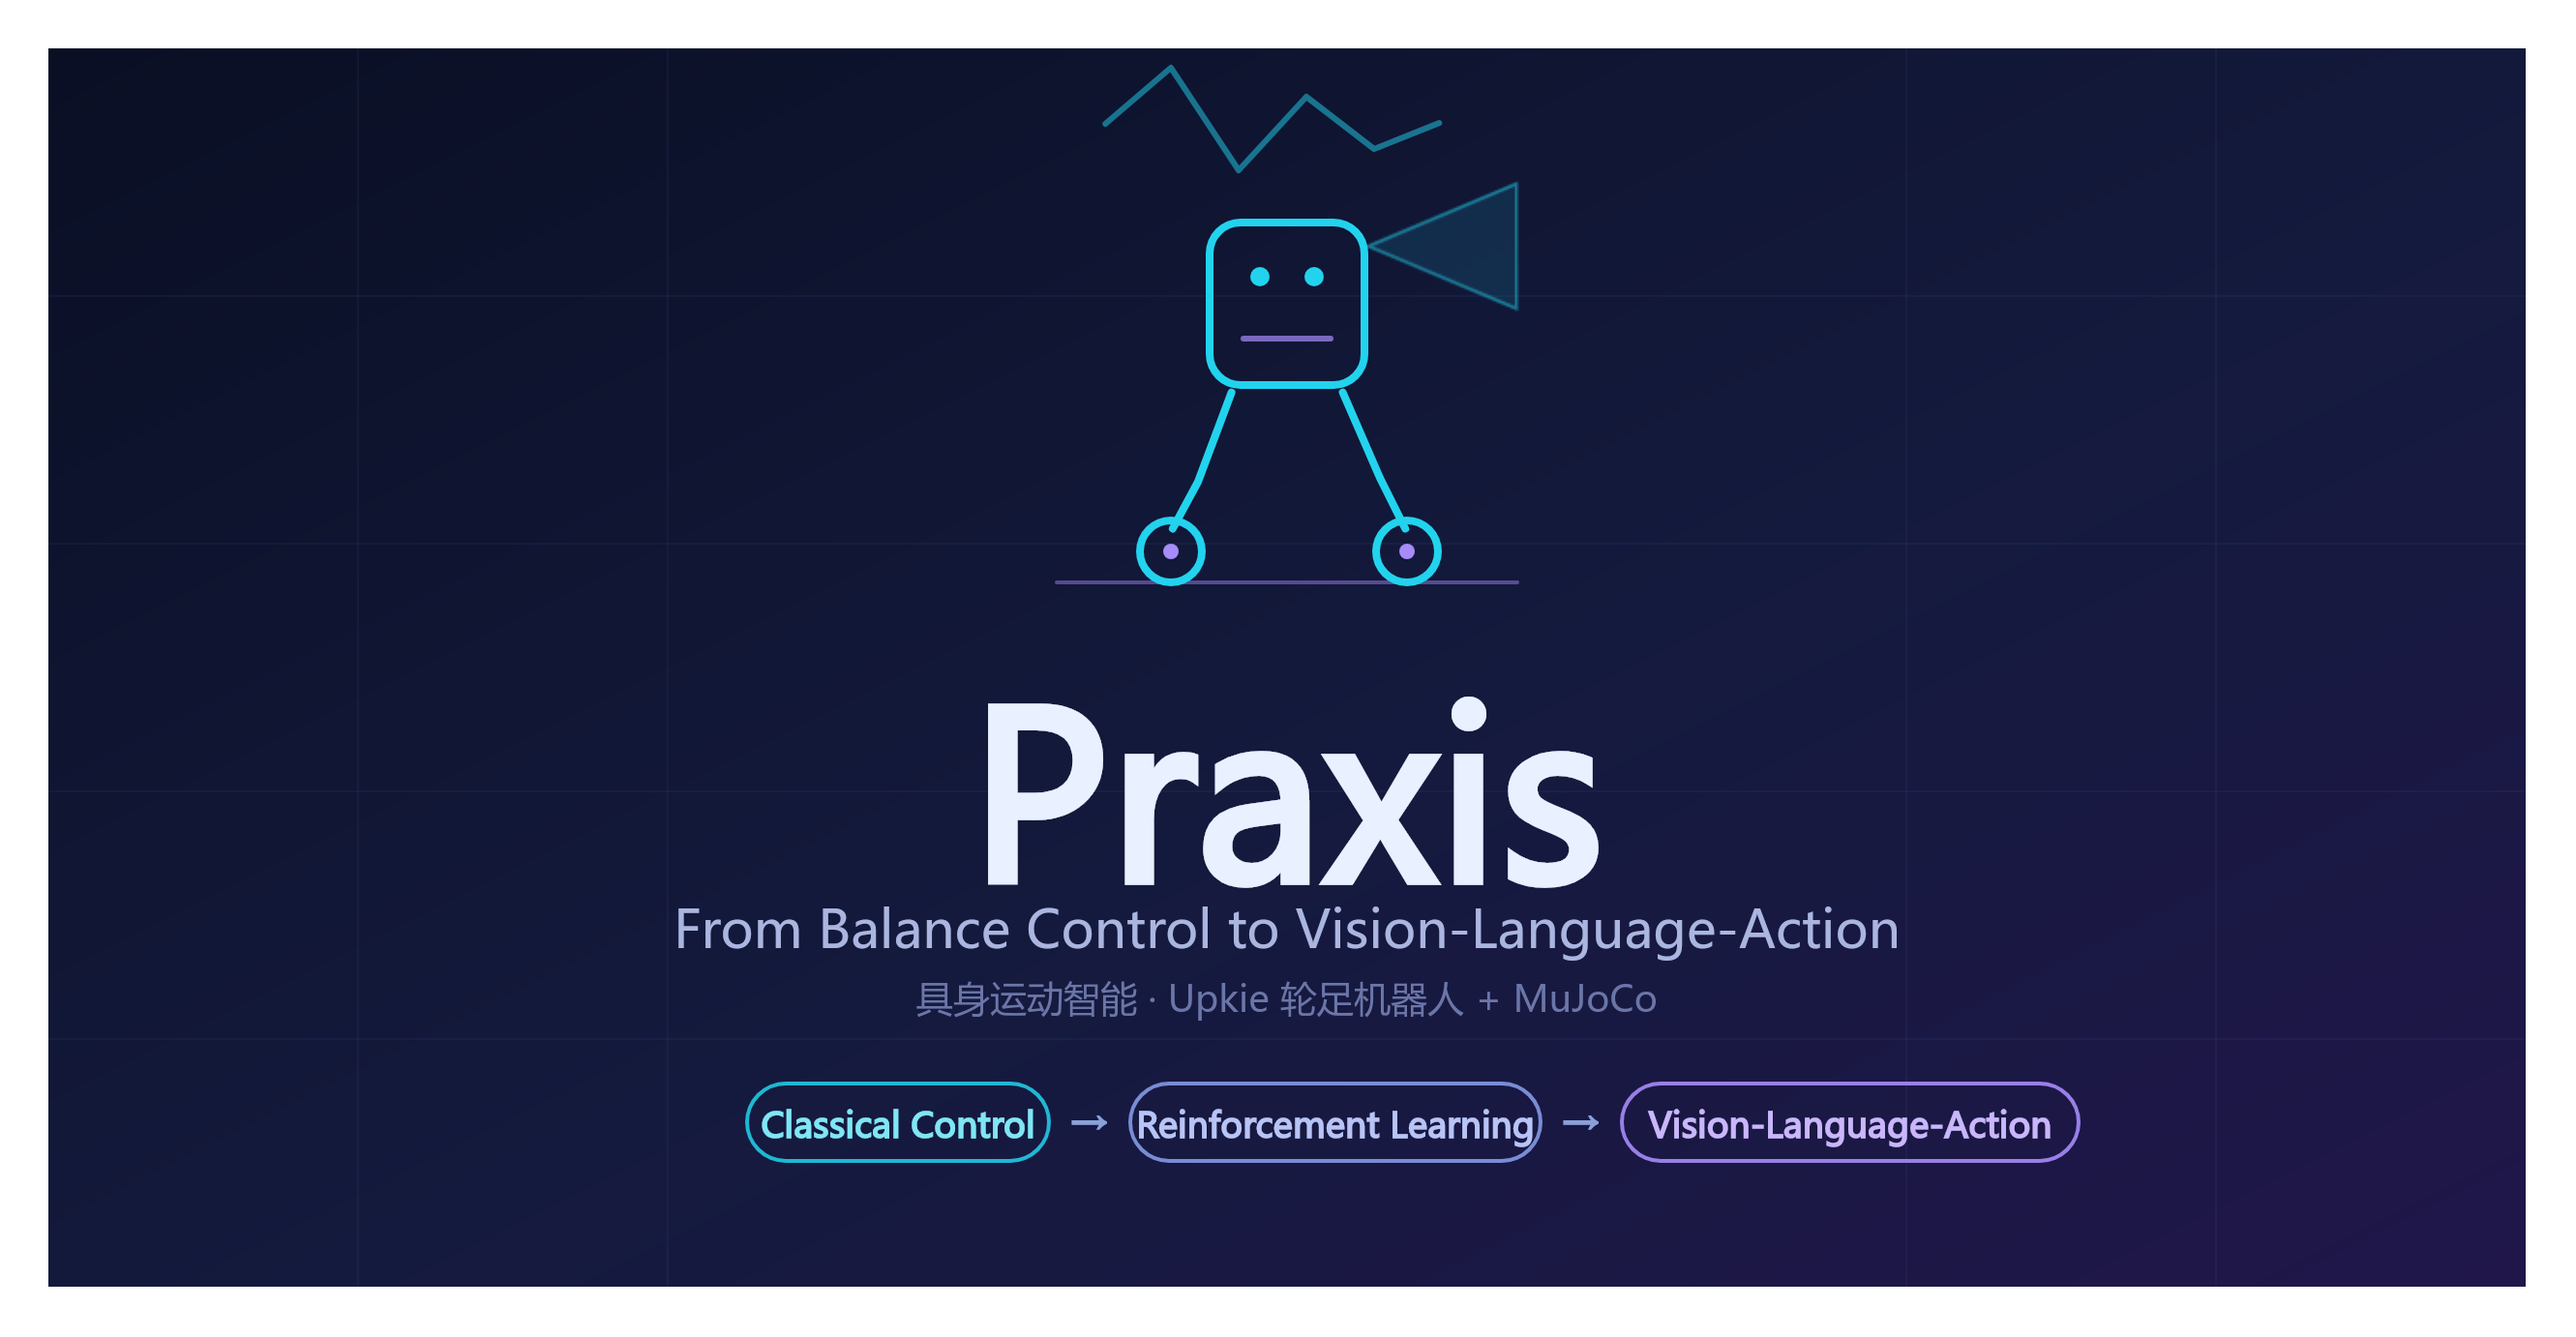
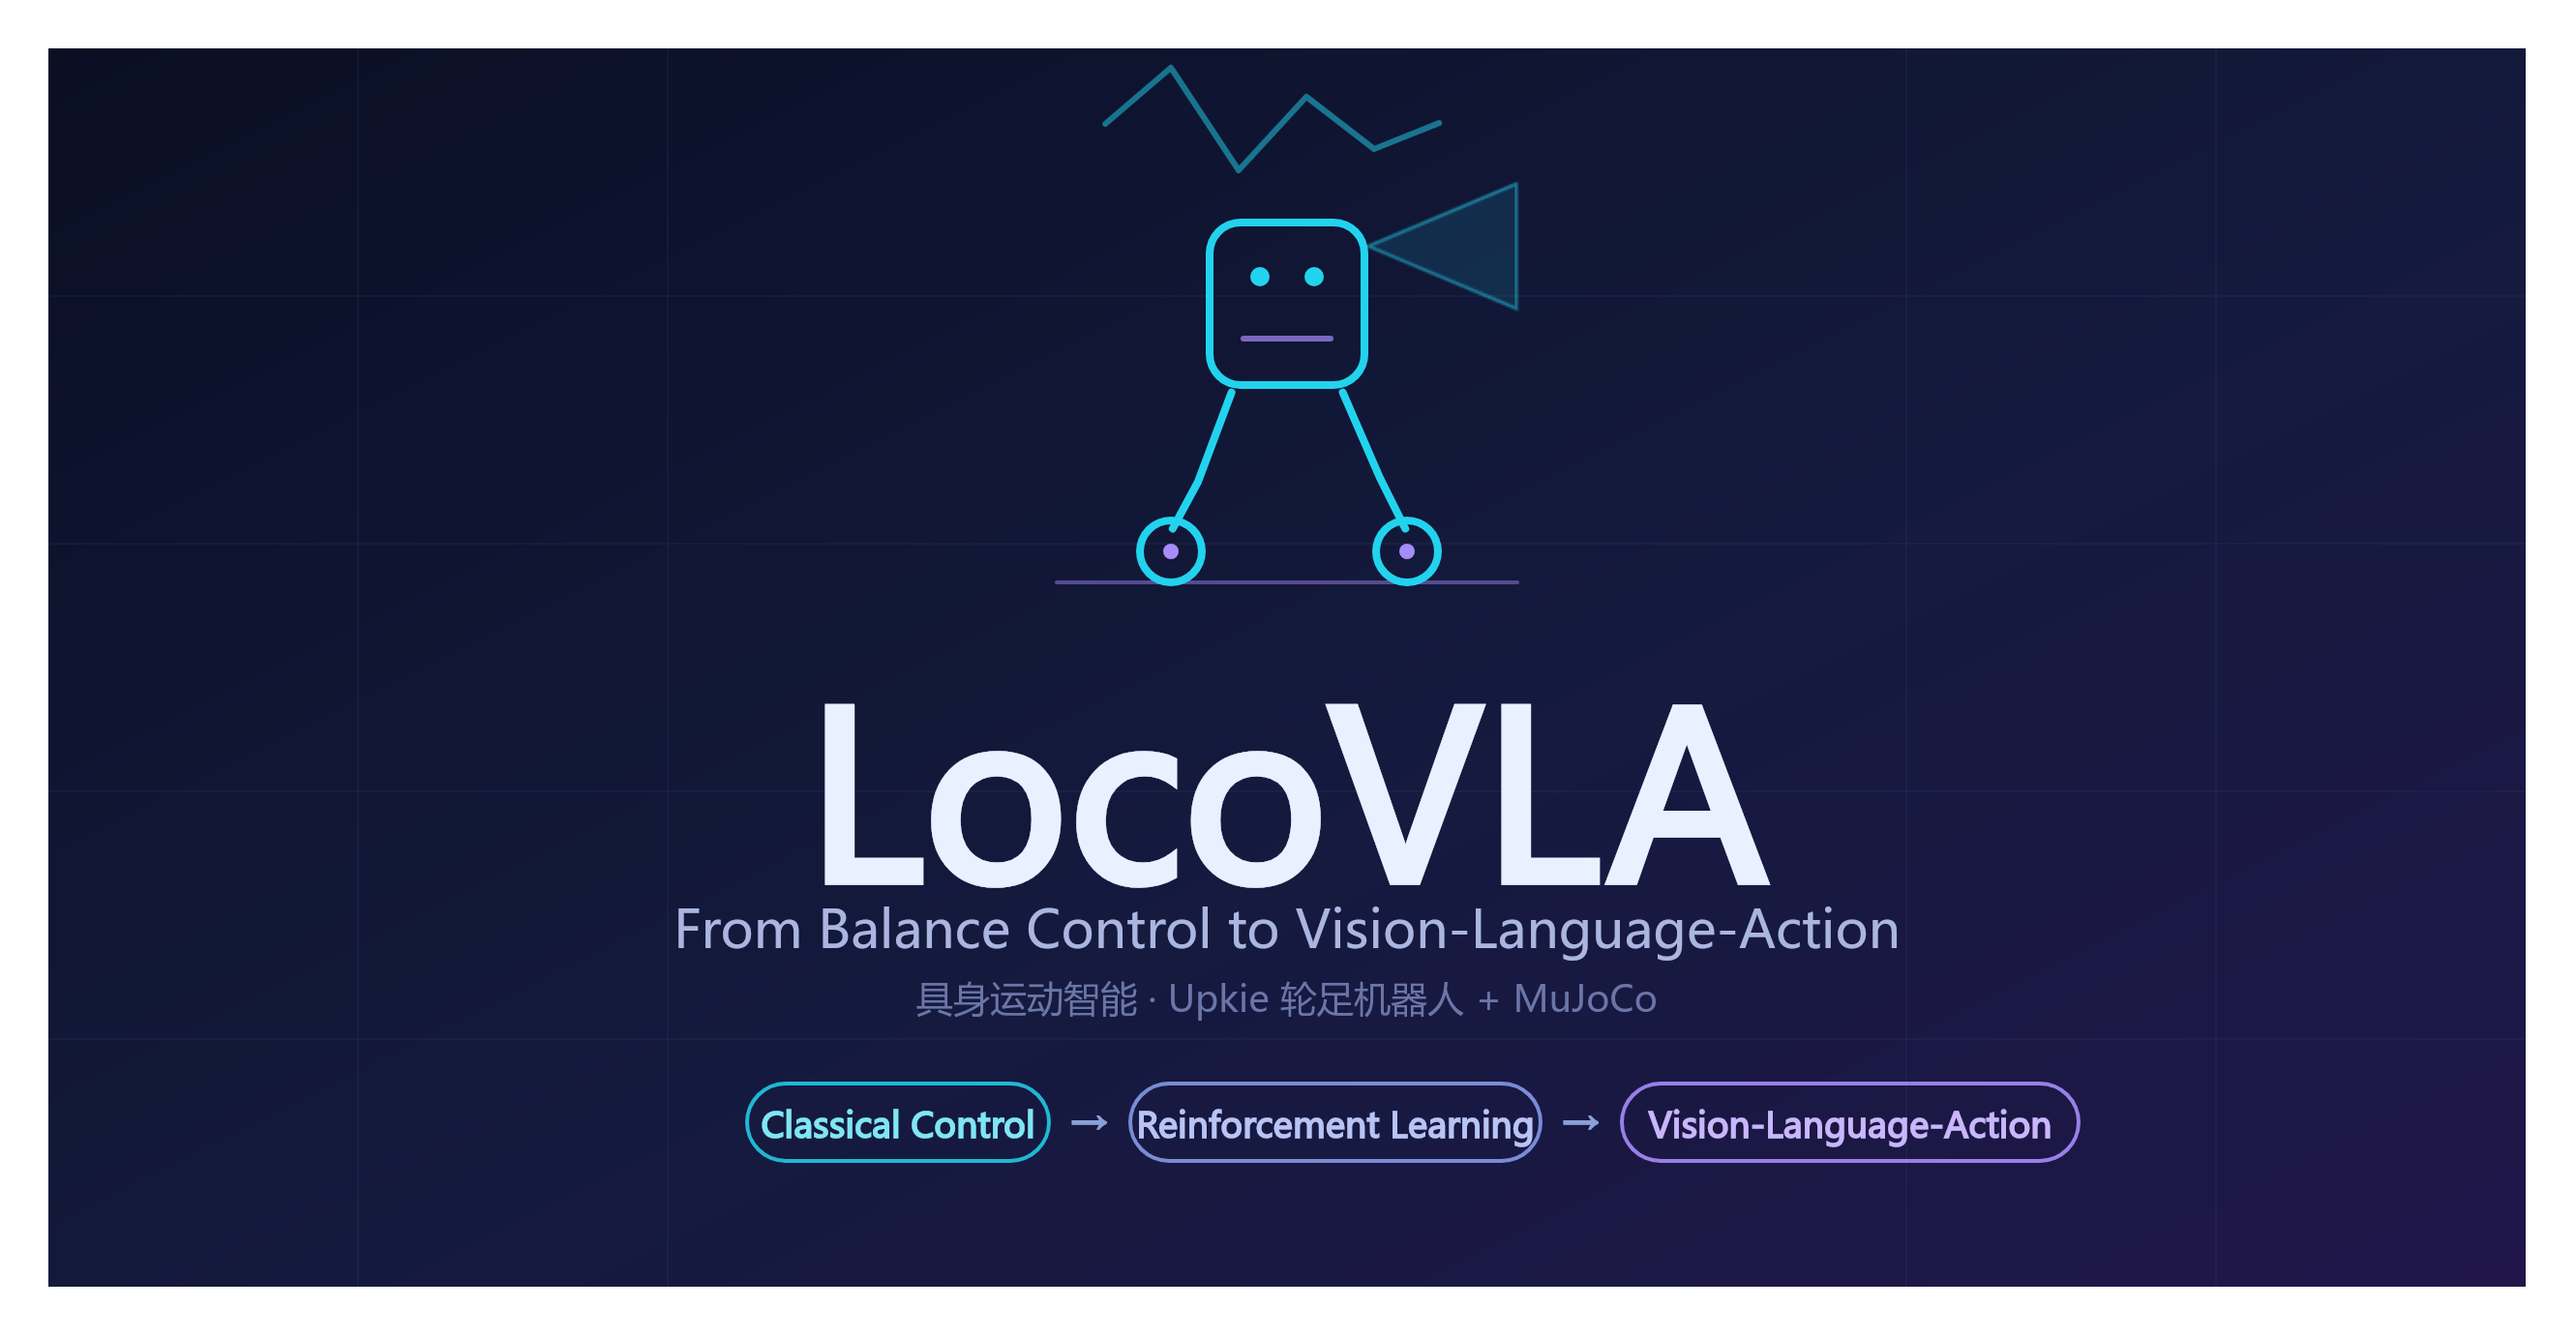
docs: 品牌改名 Praxis -> LocoVLA（更好搜、保留高级感）

Changed region(s): [[0.3118, 0.5289, 0.686, 0.6845]]

diff --git a/README.md b/README.md
@@ -1,8 +1,8 @@
 <div align="center">
 
-<img src="docs/assets/banner.svg" alt="Praxis — From Balance Control to Vision-Language-Action" width="880">
+<img src="docs/assets/banner.svg" alt="LocoVLA — From Balance Control to Vision-Language-Action" width="880">
 
-# Praxis
+# LocoVLA
 
 ### From Balance Control to Vision-Language-Action
 
@@ -10,13 +10,13 @@
 
 *一套面向**具身运动智能**的开源课程与框架 —— 以 Upkie 轮足机器人 + MuJoCo 仿真为教学载体。*
 
-[![CI](https://github.com/Yhx888/praxis/actions/workflows/ci.yml/badge.svg)](https://github.com/Yhx888/praxis/actions/workflows/ci.yml)
+[![CI](https://github.com/Yhx888/locovla/actions/workflows/ci.yml/badge.svg)](https://github.com/Yhx888/locovla/actions/workflows/ci.yml)
 [![License: MIT](https://img.shields.io/badge/License-MIT-blue.svg)](LICENSE)
 [![Python 3.11](https://img.shields.io/badge/Python-3.11-3776AB?logo=python&logoColor=white)](https://www.python.org/)
 [![MuJoCo](https://img.shields.io/badge/Simulator-MuJoCo-6f42c1)](https://mujoco.org/)
 [![C++ · ROS 2](https://img.shields.io/badge/Deploy-C%2B%2B%20%C2%B7%20ROS%202-22314E)](cpp/)
 [![PRs Welcome](https://img.shields.io/badge/PRs-welcome-brightgreen.svg)](#contributing--参与贡献)
-[![GitHub stars](https://img.shields.io/github/stars/Yhx888/praxis?style=social)](https://github.com/Yhx888/praxis/stargazers)
+[![GitHub stars](https://img.shields.io/github/stars/Yhx888/locovla?style=social)](https://github.com/Yhx888/locovla/stargazers)
 
 **[English](#english) · [简体中文](#简体中文)**
 
@@ -26,7 +26,7 @@
 
 <div align="center">
 
-<img src="docs/assets/dashboard-overview.png" alt="Praxis interactive dashboard — progress overview" width="900">
+<img src="docs/assets/dashboard-overview.png" alt="LocoVLA interactive dashboard — progress overview" width="900">
 
 <em>Interactive experiment bench — progress, stage evidence &amp; per-lesson acceptance · 交互式实验台：进度总览、阶段证据与逐关验收</em>
 
@@ -39,13 +39,13 @@
 
 <div align="center">
 
-<img src="docs/assets/dashboard-lesson.png" alt="Praxis lesson view with runnable tasks" width="900">
+<img src="docs/assets/dashboard-lesson.png" alt="LocoVLA lesson view with runnable tasks" width="900">
 
 <em>Lesson view — objectives, prerequisites, runnable tasks &amp; evidence · 关卡详情：学习目标、前置关卡、可运行任务与证据</em>
 
 <br/><br/>
 
-<img src="docs/assets/dashboard-mobile.png" alt="Praxis dashboard on mobile" width="260">
+<img src="docs/assets/dashboard-mobile.png" alt="LocoVLA dashboard on mobile" width="260">
 
 <em>Responsive mobile layout · 移动端自适应布局</em>
 
@@ -59,7 +59,7 @@
 
 ## English
 
-**Praxis** (Greek *πρᾶξις*, "action") is a reproducibility-first, 58-lesson journey that takes you from high‑school math and zero programming all the way to a **job-ready embodied control system**. You build every layer of the stack on a physically correct digital twin: modeling → classical control → state estimation → reinforcement learning → vision‑language‑action → C++/ROS 2 deployment.
+**LocoVLA** (*Locomotion + Vision‑Language‑Action*) is a reproducibility-first, 58-lesson journey that takes you from high‑school math and zero programming all the way to a **job-ready embodied control system**. You build every layer of the stack on a physically correct digital twin: modeling → classical control → state estimation → reinforcement learning → vision‑language‑action → C++/ROS 2 deployment.
 
 Nothing is marked "done" by clicking through slides. Every milestone ships **fixed-seed, auditable evidence** — config, git commit, seed, metrics, pass criteria, raw logs, and plots.
 
@@ -177,7 +177,7 @@ Released under the [MIT License](LICENSE). Third-party assets under `assets/upki
 
 ## 简体中文
 
-**Praxis**（希腊语 *πρᾶξις*，意为"行动/实践"）是一套**以可复现证据为核心**的 58 关课程，带你从高中数学与零编程基础，一路走到**岗位级的具身控制系统**。你会在一个物理正确的数字样机上，亲手搭建每一层技术栈：建模 → 经典控制 → 状态估计 → 强化学习 → 视觉语言动作（VLA）→ C++/ROS 2 工程部署。
+**LocoVLA**（*Locomotion + Vision‑Language‑Action*，运动控制 + 视觉语言动作）是一套**以可复现证据为核心**的 58 关课程，带你从高中数学与零编程基础，一路走到**岗位级的具身控制系统**。你会在一个物理正确的数字样机上，亲手搭建每一层技术栈：建模 → 经典控制 → 状态估计 → 强化学习 → 视觉语言动作（VLA）→ C++/ROS 2 工程部署。
 
 课程不靠"看完幻灯片"来判定完成。每个里程碑都会产出**固定随机种子、可审查的证据** —— 配置、Git commit、seed、指标、通过条件、原始日志和图表。
 

diff --git a/CODE_OF_CONDUCT.md b/CODE_OF_CONDUCT.md
@@ -4,7 +4,7 @@
 
 ### Our Pledge
 
-We as members, contributors, and maintainers pledge to make participation in **Praxis** a harassment-free experience for everyone, regardless of age, body size, disability, ethnicity, gender identity and expression, level of experience, nationality, personal appearance, race, religion, or sexual identity and orientation.
+We as members, contributors, and maintainers pledge to make participation in **LocoVLA** a harassment-free experience for everyone, regardless of age, body size, disability, ethnicity, gender identity and expression, level of experience, nationality, personal appearance, race, religion, or sexual identity and orientation.
 
 ### Our Standards
 
@@ -33,7 +33,7 @@ This Code of Conduct is adapted from the [Contributor Covenant](https://www.cont
 
 ### 我们的承诺
 
-作为成员、贡献者和维护者，我们承诺让每个人参与 **Praxis** 的体验免受骚扰，无论其年龄、体型、身体健全与否、族裔、性别认同与表达、经验水平、国籍、外貌、种族、宗教信仰、性取向如何。
+作为成员、贡献者和维护者，我们承诺让每个人参与 **LocoVLA** 的体验免受骚扰，无论其年龄、体型、身体健全与否、族裔、性别认同与表达、经验水平、国籍、外貌、种族、宗教信仰、性取向如何。
 
 ### 我们的准则
 

diff --git a/CONTRIBUTING.md b/CONTRIBUTING.md
@@ -1,8 +1,8 @@
-# Contributing to Praxis · 参与贡献
+# Contributing to LocoVLA · 参与贡献
 
-Thanks for your interest in **Praxis**! Contributions of all kinds are welcome — bug reports, fixes, new lessons, docs, and tests.
+Thanks for your interest in **LocoVLA**! Contributions of all kinds are welcome — bug reports, fixes, new lessons, docs, and tests.
 
-感谢你对 **Praxis** 的关注！欢迎任何形式的贡献 —— 缺陷报告、修复、新课程、文档和测试。
+感谢你对 **LocoVLA** 的关注！欢迎任何形式的贡献 —— 缺陷报告、修复、新课程、文档和测试。
 
 ---
 
